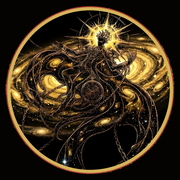
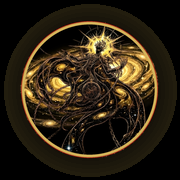
Add files via upload

diff --git a/index.html b/index.html
@@ -24,9 +24,14 @@
 <link rel="icon" href="/favicon.ico" sizes="any">
 <link rel="icon" type="image/png" sizes="32x32" href="/favicon-32x32.png">
 <link rel="icon" type="image/png" sizes="48x48" href="/favicon-48x48.png">
-<link rel="apple-touch-icon" sizes="180x180" href="/apple-touch-icon.png">
-<link rel="manifest" href="/site.webmanifest">
+<link rel="apple-touch-icon" sizes="180x180" href="/apple-touch-icon.png?v=23-app">
+<link rel="manifest" href="/site.webmanifest?v=23-app">
 <meta name="theme-color" content="#000000">
+<meta name="apple-mobile-web-app-status-bar-style" content="black-translucent">
+<meta name="mobile-web-app-capable" content="yes">
+<meta name="apple-mobile-web-app-capable" content="yes">
+<meta name="apple-mobile-web-app-title" content="The Omniarch">
+<meta name="application-name" content="The Omniarch">
 <style>
 
 /* ============ TOKENS ============ */